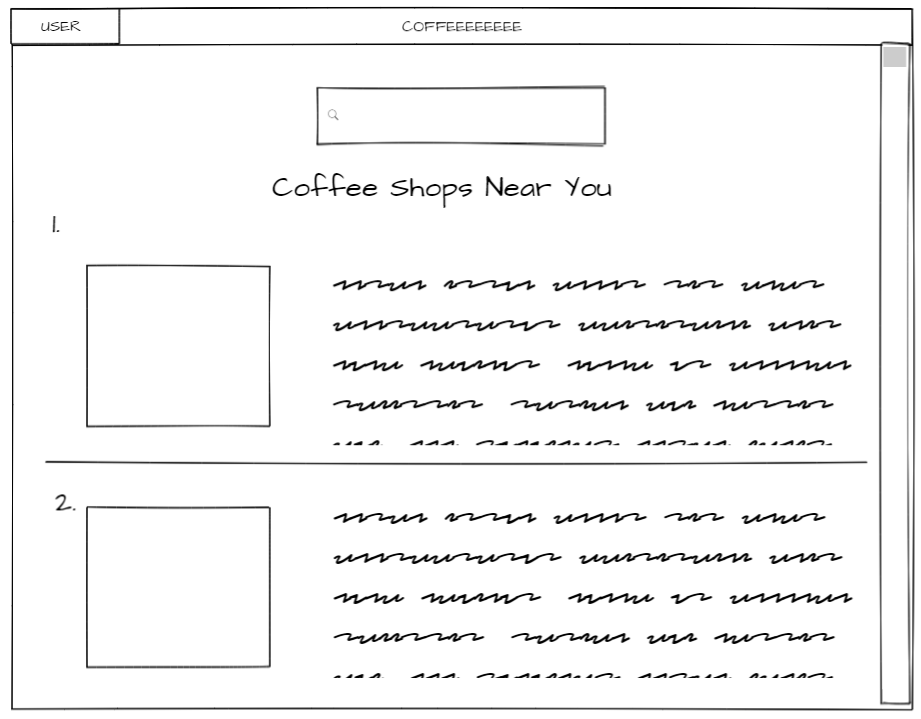
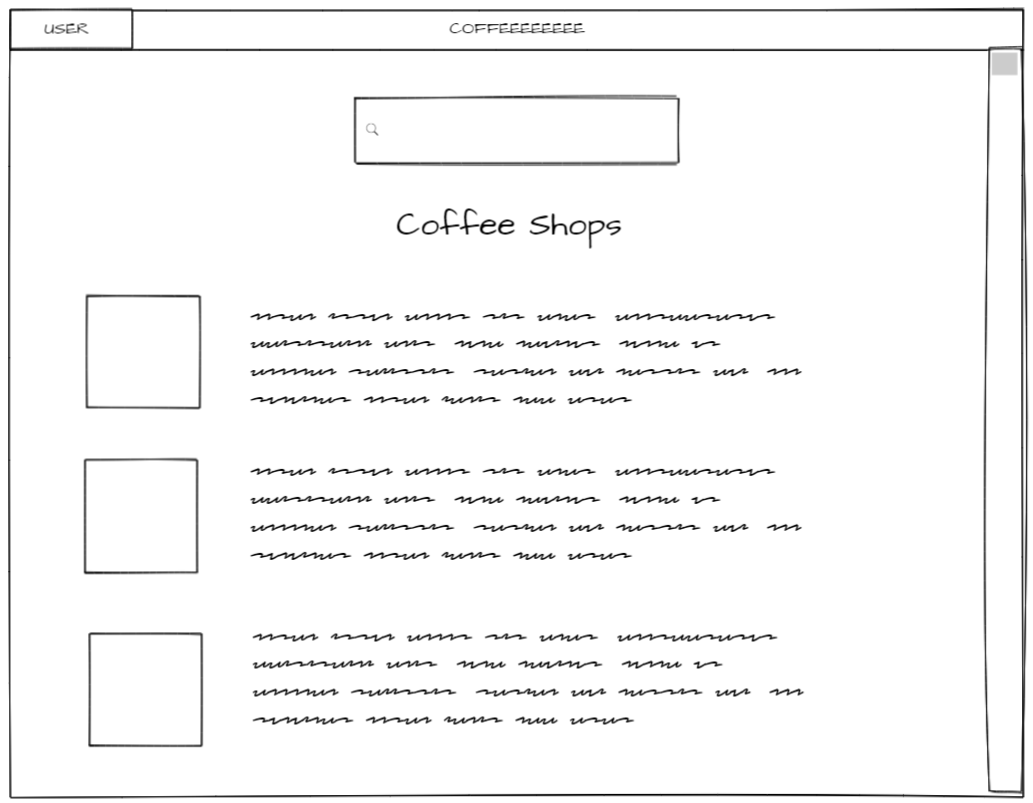
pushing final wireframes

diff --git a/README.md b/README.md
@@ -134,7 +134,7 @@ An Example Cafe (also ref to Yelp API):
 
 /search - page for display all coffee shops nearby entered location
 
-![list](documentation/list.png)
+![list](documentation/cafes-near.png)
 
 /bookmarks - page for showing all bookmarked places/drinks
 
